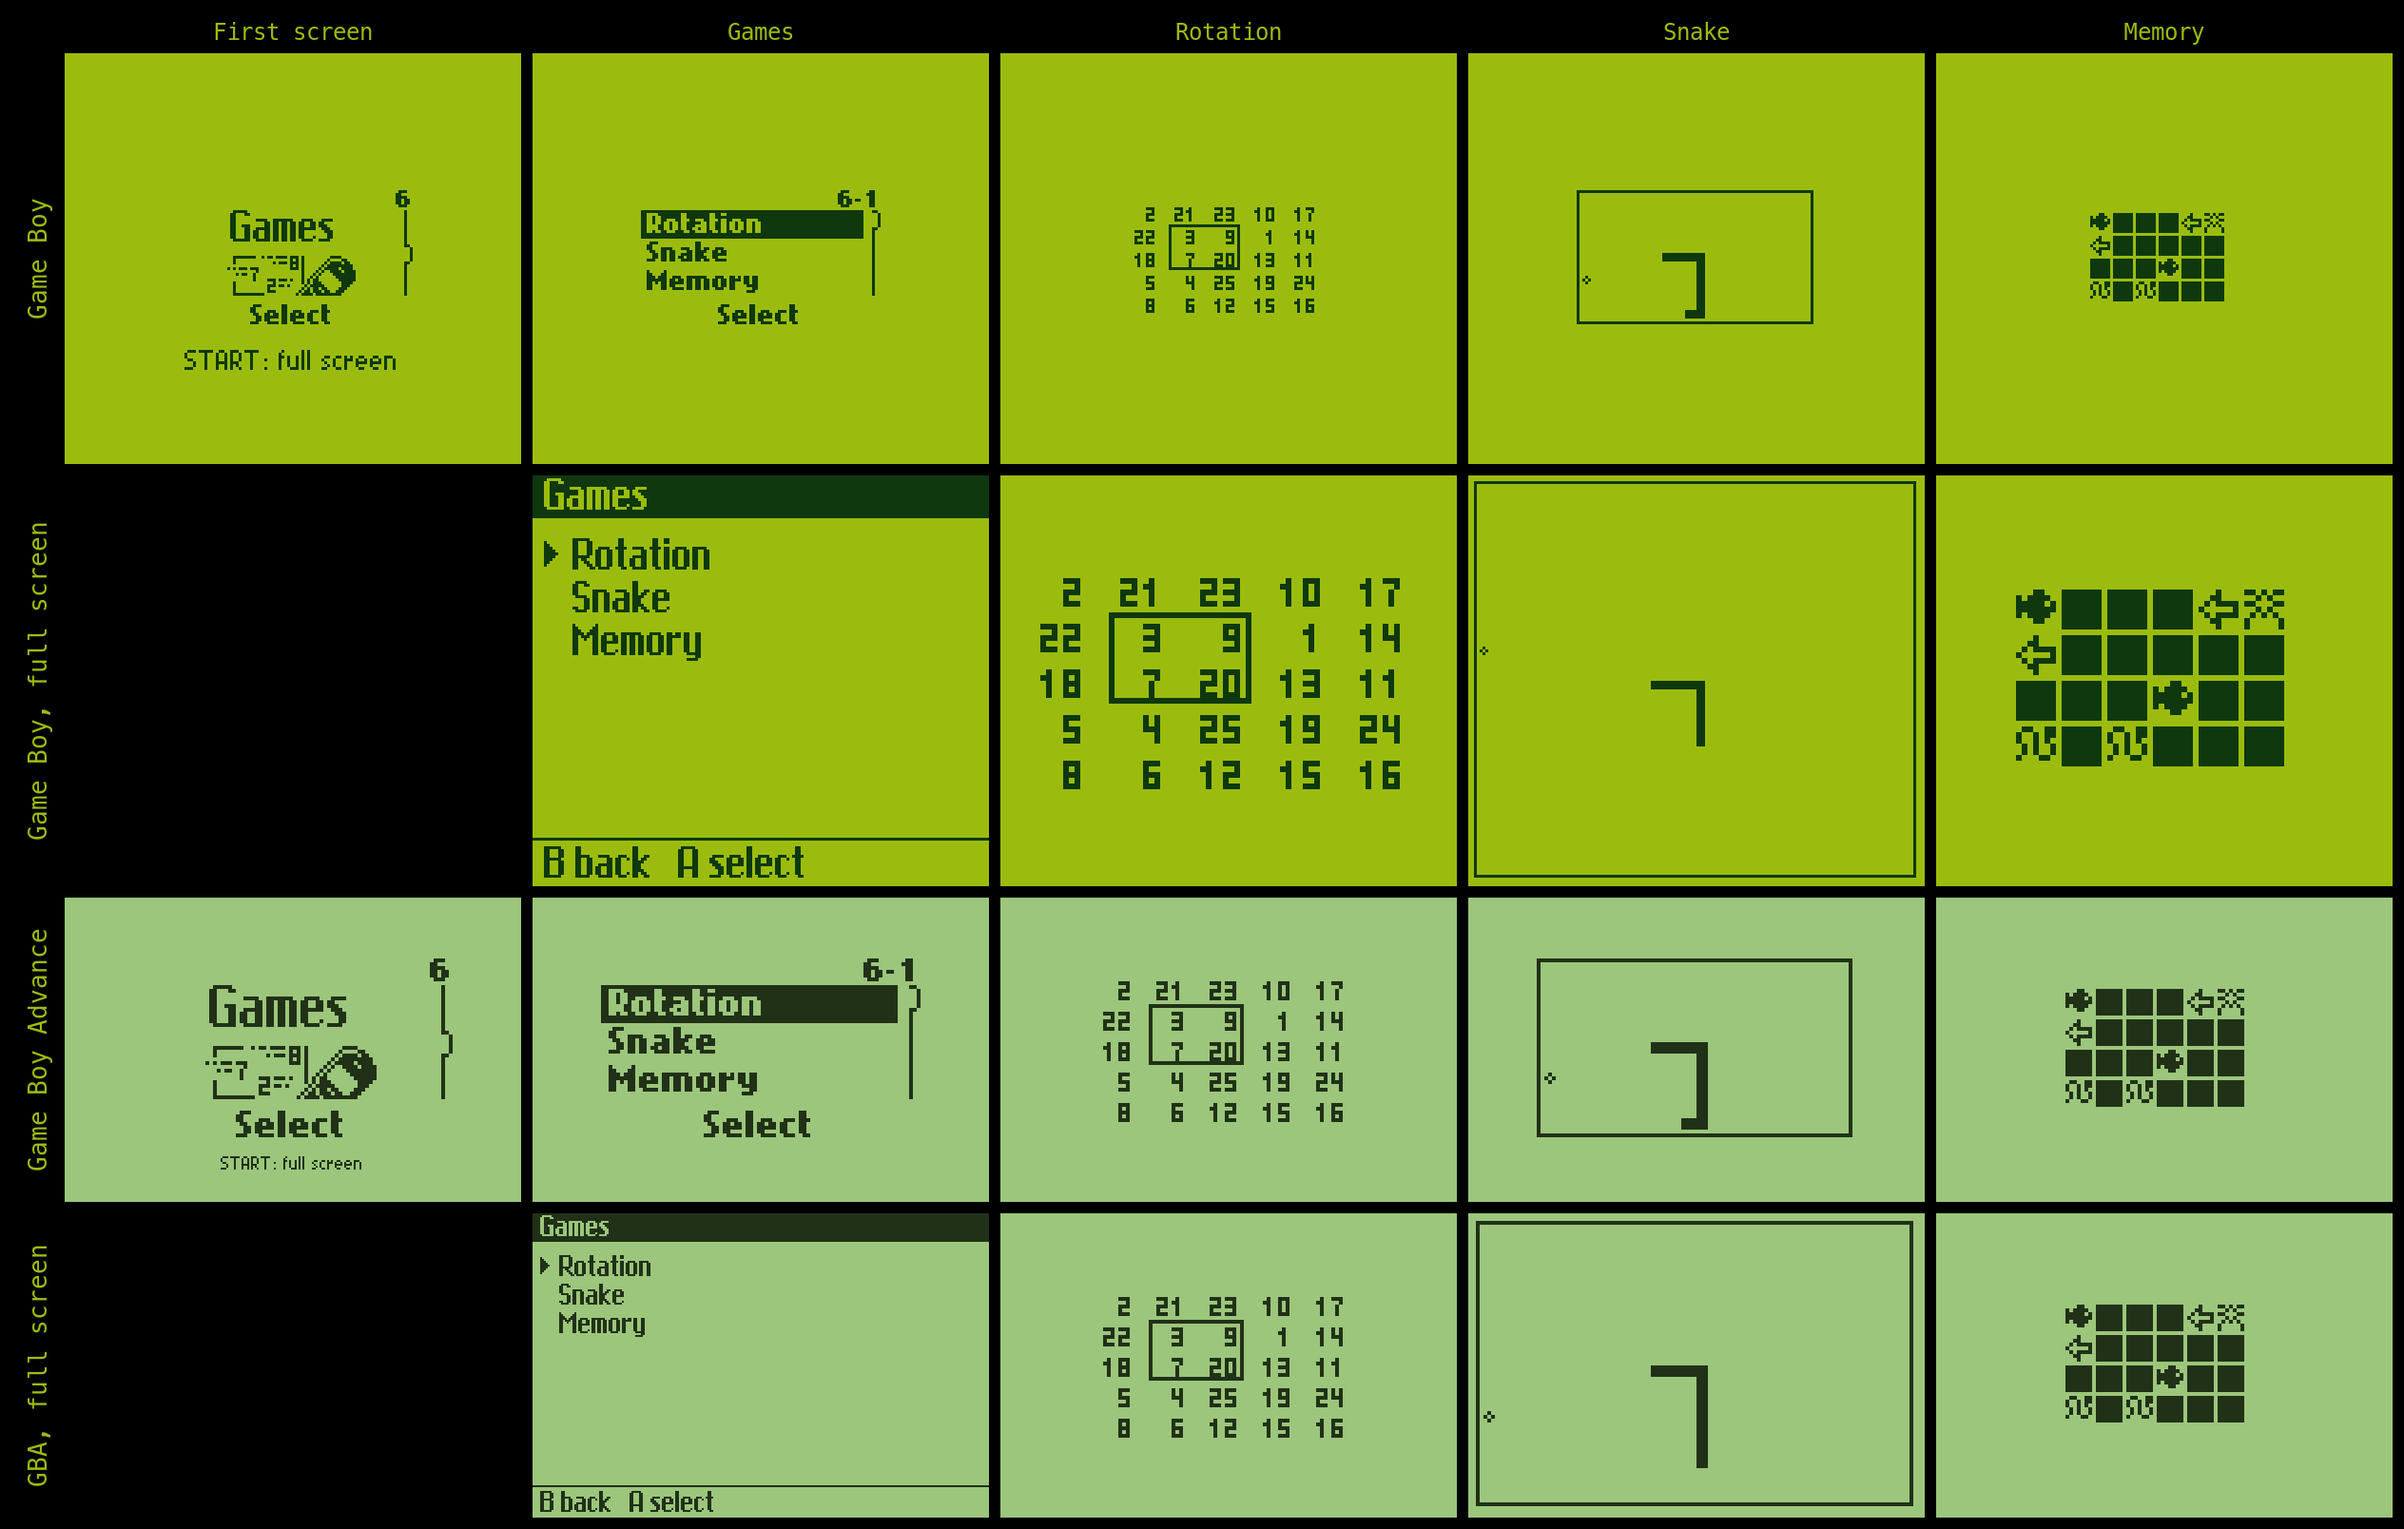
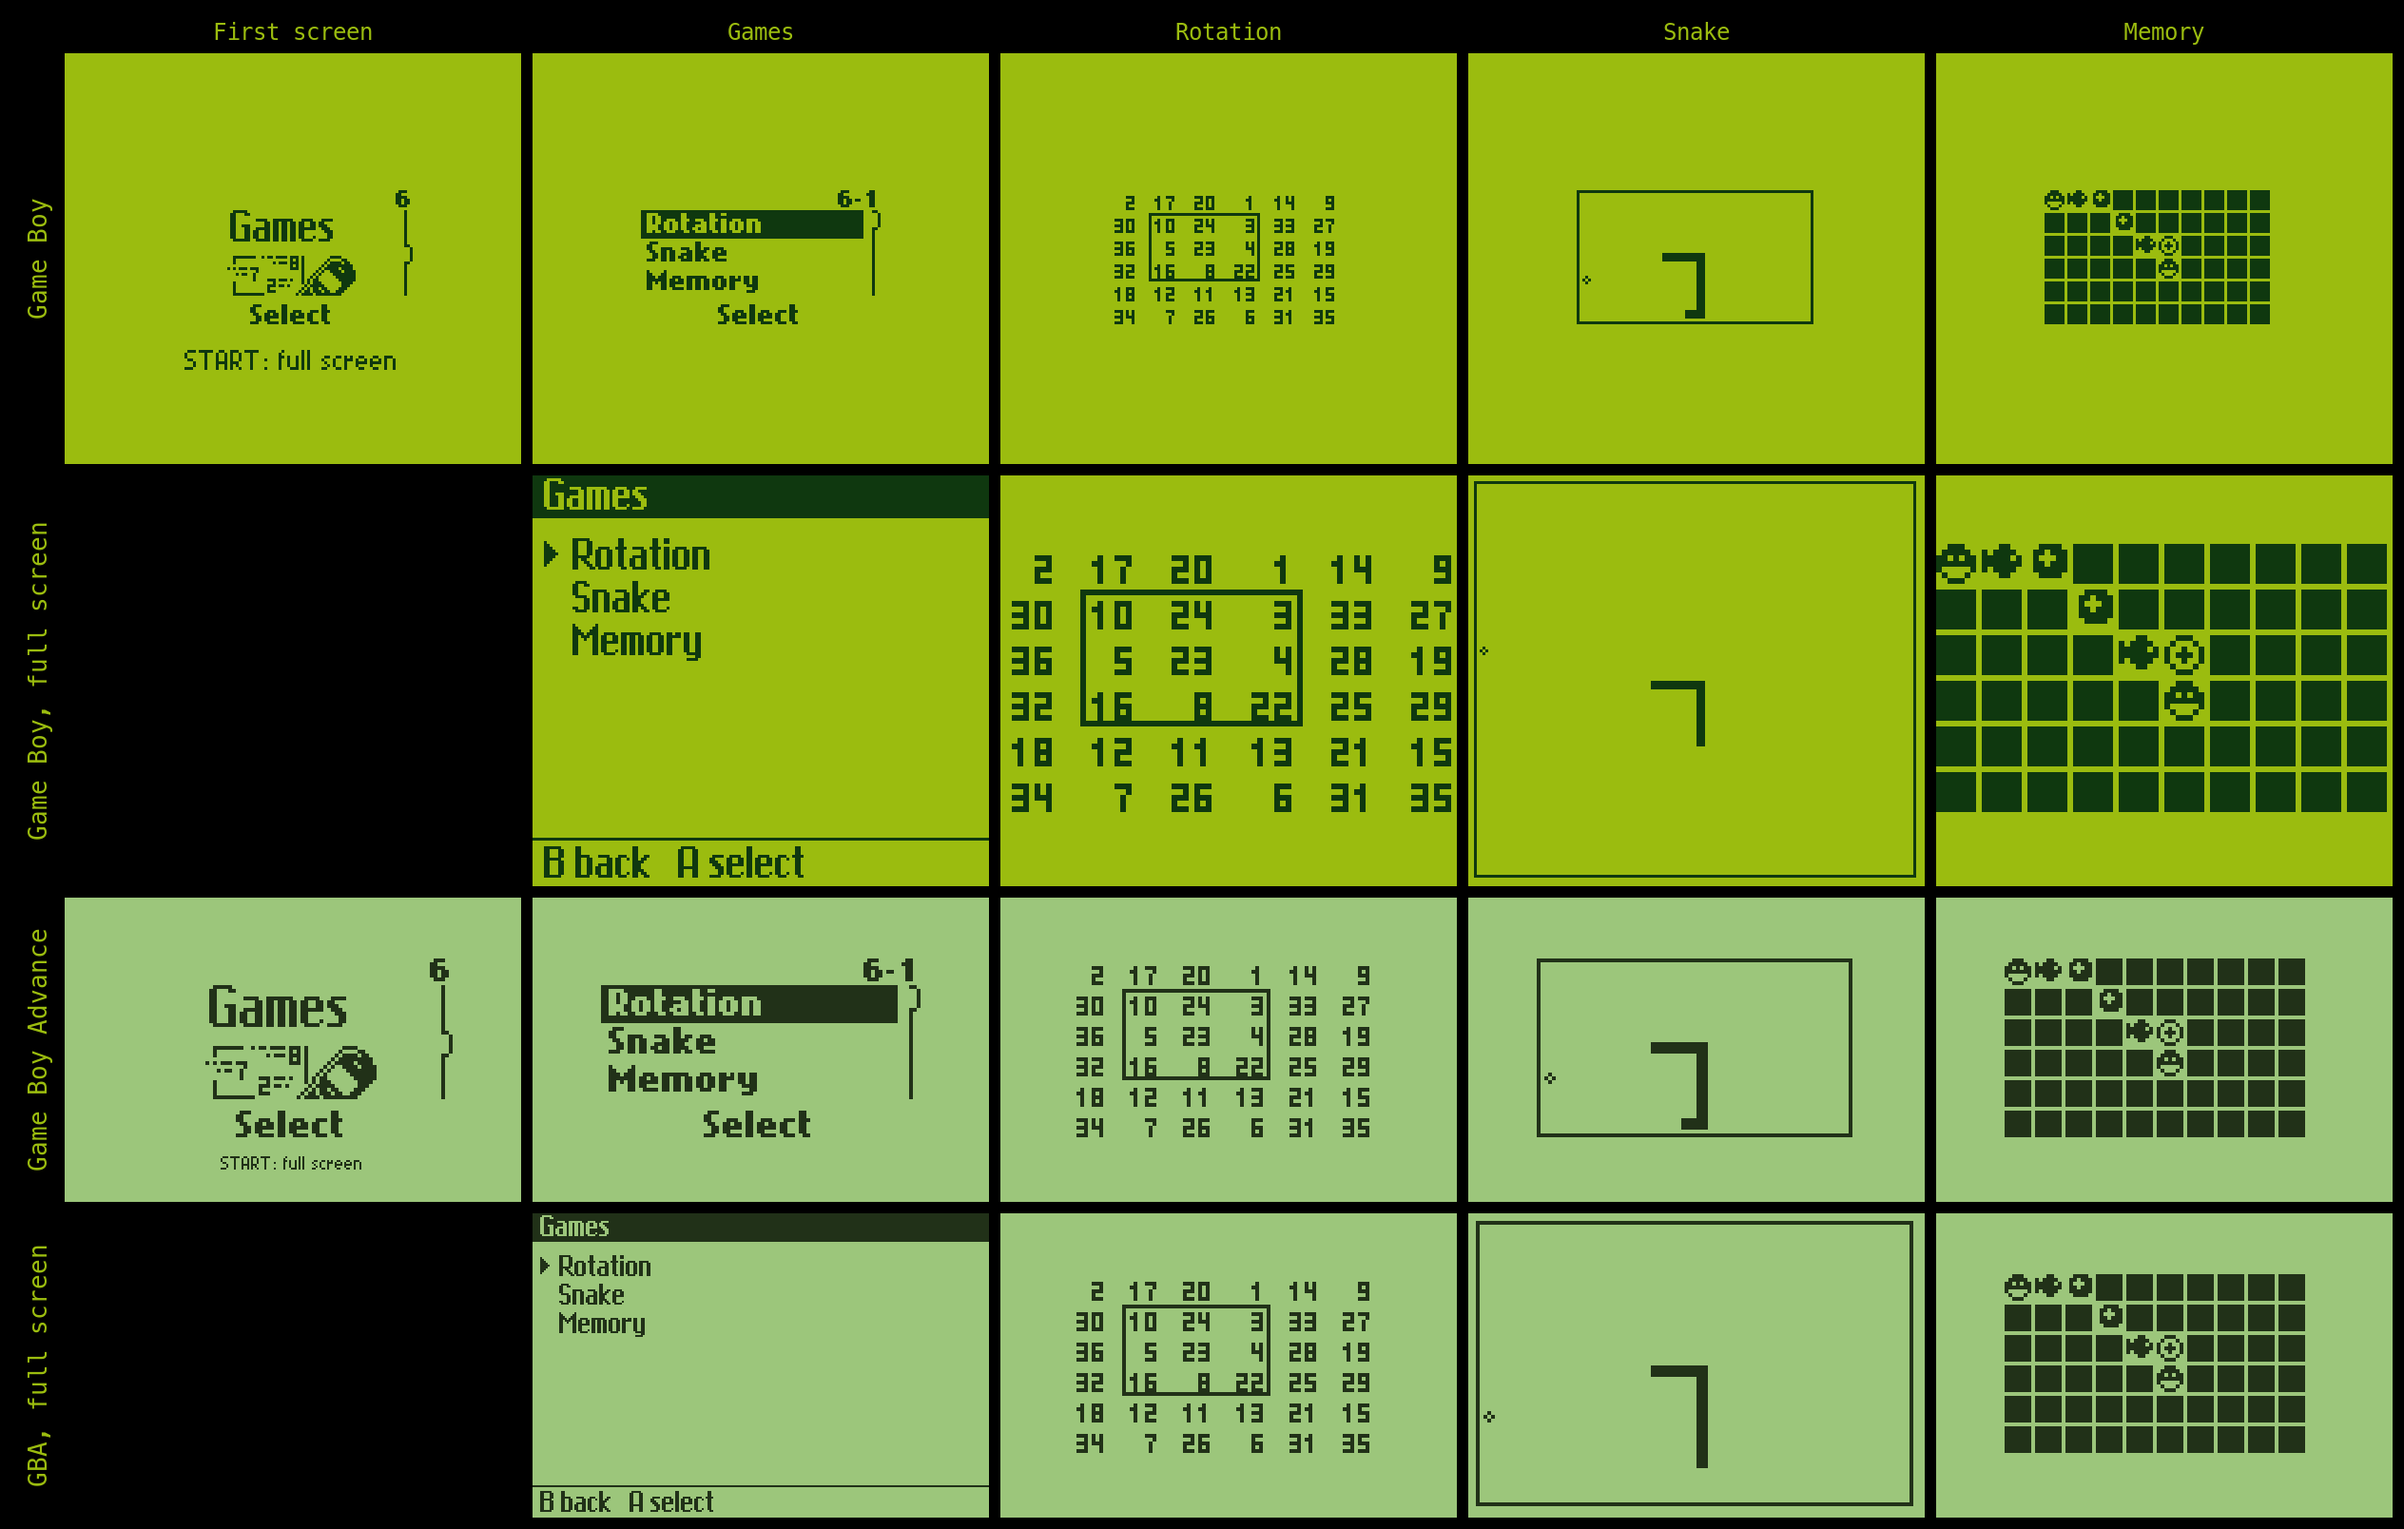
Keep the phone screen's left edge at 2x on the Game Boy
The Game Boy leaves off the phone screen's last four columns instead of two
at each side, so Memory's biggest board fits whole. The banner shows the
biggest boards of Rotation and Memory.

diff --git a/core/menu.c b/core/menu.c
@@ -106,8 +106,15 @@ static uint8_t drawn_screen = NO_SCREEN, drawn_selection;
 static uint8_t full_screen;    /* the full-screen variant was chosen */
 static uint8_t view_mode;      /* which of the views below the LCD is set up for */
 
-/* Columns of the phone's LCD a platform with LCD_GAME_ZOOM shows. */
+/* Columns of the phone's LCD a platform with LCD_GAME_ZOOM shows, and how
+   many it leaves off on the left; the rest of what does not fit is left off
+   on the right. None on the left keeps all of Memory's biggest board, which
+   starts in the LCD's first column and ends five short of its last. The
+   game is drawn with that first shown column on a whole cell of the
+   framebuffer, GAME_ZOOM_X, which is what a platform can magnify. */
 #define GAME_ZOOM_WIDTH (LCD_FB_WIDTH / LCD_GAME_ZOOM < LCD_WIDTH ? LCD_FB_WIDTH / LCD_GAME_ZOOM : LCD_WIDTH)
+#define GAME_ZOOM_CUT_LEFT 0
+#define GAME_ZOOM_X ((LCD_FB_WIDTH - GAME_ZOOM_WIDTH) / 2 / 8 * 8)
 
 /* The phone's LCD; the full-screen variant's own menus; its board. */
 enum {
@@ -1038,12 +1045,14 @@ void menu_draw(void)
         lcd_view_phone();
         if (LCD_ZOOM > 1)
             lcd_zoom_set(LCD_PHONE_X, LCD_PHONE_Y, LCD_WIDTH, LCD_HEIGHT);
-        else if (LCD_GAME_ZOOM > 1 && full_screen && screen != SCREEN_MAIN)
+        else if (LCD_GAME_ZOOM > 1 && full_screen && screen != SCREEN_MAIN) {
             /* A game on the phone's LCD in the full-screen variant: as much
-               of the LCD's middle as fits across the screen. */
-            lcd_zoom_set(LCD_PHONE_X + (LCD_WIDTH - GAME_ZOOM_WIDTH) / 2, LCD_PHONE_Y, GAME_ZOOM_WIDTH, LCD_HEIGHT);
-        else
+               of the LCD as fits across the screen. */
+            lcd_view_set(GAME_ZOOM_X - GAME_ZOOM_CUT_LEFT, LCD_PHONE_Y, LCD_WIDTH, LCD_HEIGHT);
+            lcd_zoom_set(GAME_ZOOM_X, LCD_PHONE_Y, GAME_ZOOM_WIDTH, LCD_HEIGHT);
+        } else {
             lcd_zoom_set(0, 0, 0, 0);
+        }
     } else if (mode == VIEW_NATIVE) {
         lcd_view_full();
         lcd_zoom_set(0, 0, 0, 0);

diff --git a/README.md b/README.md
@@ -137,8 +137,8 @@ on the GBA, which shows the board at 2x), with its own level, top score and
 speeds. Rotation and Memory are the same games in both modes: from the
 full-screen menus they are played on the phone's screen at 2x, and share
 their level and top score with the phone-sized mode. At 2x the phone's 84
-columns are 8 pixels too wide for the Game Boy, which leaves off the two
-columns at each side. [`docs/authenticity.md`](docs/authenticity.md)
+columns are 8 pixels too wide for the Game Boy, which leaves off the last
+four; Memory's biggest board still fits whole. [`docs/authenticity.md`](docs/authenticity.md)
 lists where the code's structure still differs from the firmware's. See
 [`docs/handoff.md`](docs/handoff.md) for the decisions taken, the reference
 material and the work items.
